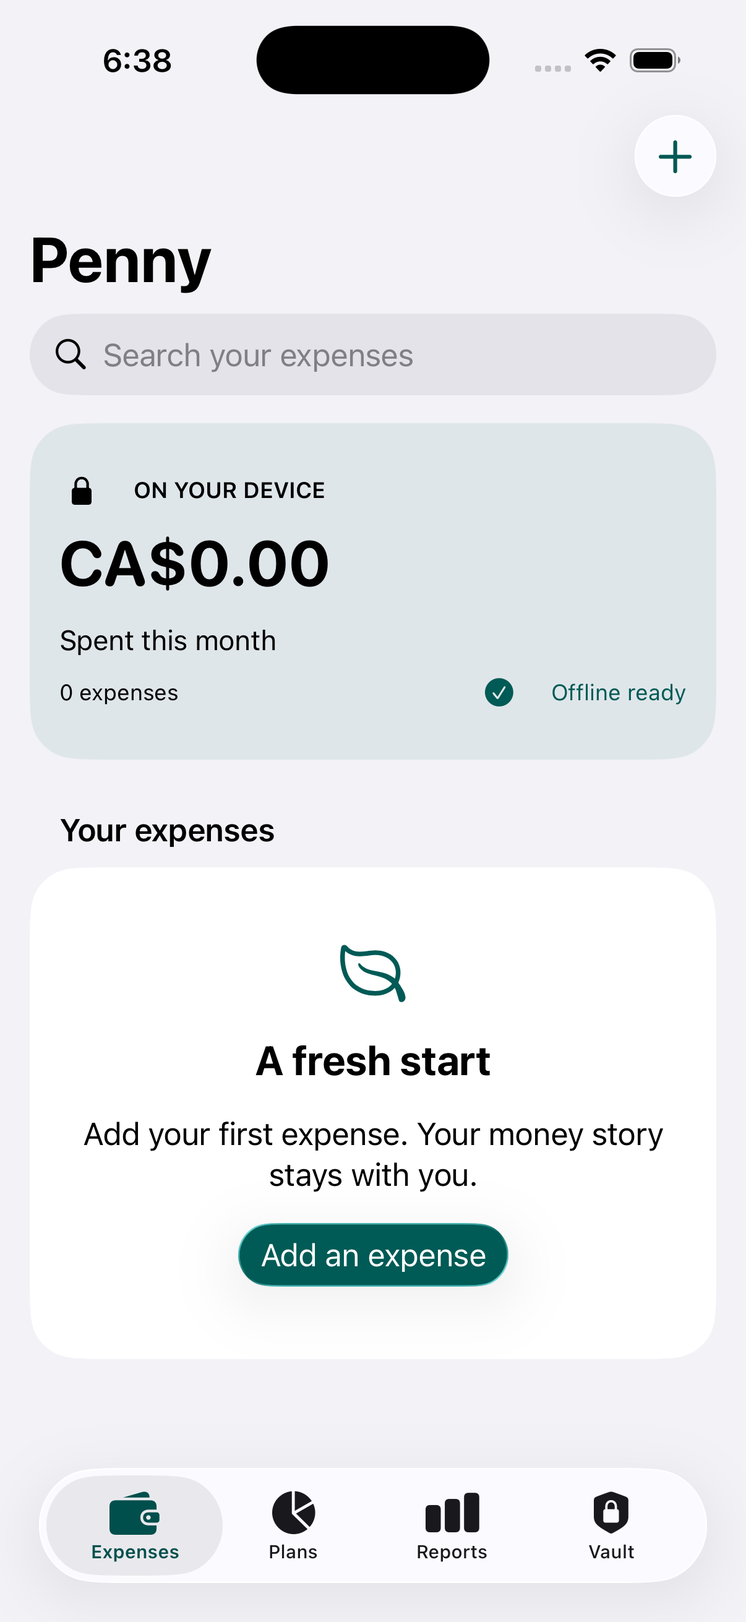
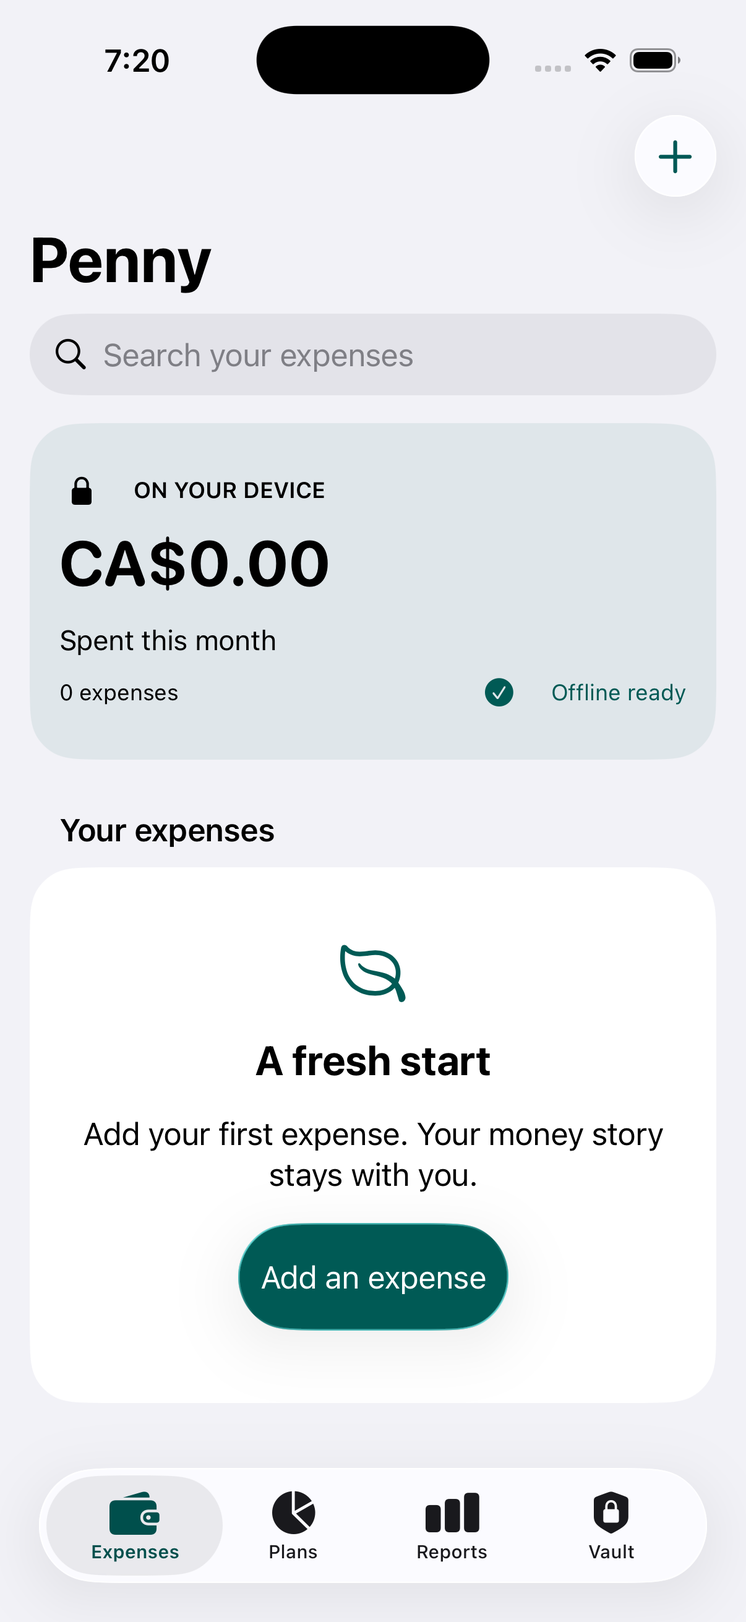
fix(offline): synchronize native UI journeys and improve expense tap target

Changed region(s): [[0.3068, 0.7414, 0.7056, 0.8341], [0.1227, 0.0309, 0.2454, 0.0618]]

diff --git a/apps/ios/PennyOfflineUITests/CloudFlowTests.swift b/apps/ios/PennyOfflineUITests/CloudFlowTests.swift
@@ -24,32 +24,52 @@ import XCTest
         app.terminate(); app.launch()
         XCTAssertTrue(app.buttons["expense-Local without cloud"].waitForExistence(timeout: 5))
     }
-    func testSyntheticAutomaticConsentCancelEnableRelaunchAndDisable() {
+    func testSyntheticAutomaticConsentCancelEnableRelaunchAndDisable() throws {
         let app = XCUIApplication(); app.launchArguments = ["--uitesting", "--reset-vault", "--synthetic-cloud"]; app.launch()
         func openCloud() {
             app.buttons["Vault"].tap(); let link = app.buttons["Optional iCloud backup"]
             if !link.isHittable { app.swipeUp() }; link.tap()
             XCTAssertTrue(app.staticTexts["syntheticCloudProvider"].exists || app.otherElements["syntheticCloudProvider"].exists)
         }
-        func toggle() -> XCUIElement {
+        func toggle() throws -> XCUIElement {
             let element = app.switches["automaticCloudBackup"]
-            for _ in 0..<3 { if element.isHittable { break }; app.swipeUp() }
-            XCTAssertTrue(element.waitForExistence(timeout: 5)); return element
+            for _ in 0..<8 {
+                let frame = element.exists ? element.frame : .zero
+                let bottom = app.tabBars.firstMatch.exists ? app.tabBars.firstMatch.frame.minY : app.frame.maxY
+                let top = app.navigationBars.firstMatch.frame.maxY
+                if element.exists, element.isHittable, !frame.isEmpty,
+                   frame.minY > top + 8, frame.maxY < bottom - 8 { return element }
+                let aboveNavigation = !frame.isEmpty && frame.minY <= top + 8
+                app.coordinate(withNormalizedOffset: CGVector(dx: 0.5, dy: aboveNavigation ? 0.4 : 0.7))
+                    .press(forDuration: 0.05, thenDragTo: app.coordinate(withNormalizedOffset: CGVector(dx: 0.5, dy: aboveNavigation ? 0.7 : 0.4)))
+            }
+            XCTFail("Automatic backup switch must be fully visible between navigation and tab bars")
+            throw NSError(domain: "CloudFlowTests", code: 1)
+        }
+        func tapToggle() throws {
+            let row = try toggle()
+            let controls = row.descendants(matching: .switch).allElementsBoundByIndex.filter { $0.isHittable && $0.frame.width <= 100 && $0.frame.height <= 60 }
+            // SwiftUI may expose the compact UISwitch as a child of a labelled
+            // switch row. Require a single control; never tap near obscuring tabs.
+            if controls.count == 1 { controls[0].tap() }
+            else if controls.isEmpty { row.tap() }
+            else { XCTFail("Ambiguous automatic-backup switch controls"); throw NSError(domain: "CloudFlowTests", code: 2) }
         }
         openCloud(); let enable = app.buttons["enableCloudBackup"]
         if !enable.isHittable { app.swipeUp() }; enable.tap()
-        let automatic = toggle(); XCTAssertEqual(automatic.value as? String, "0"); XCTAssertTrue(automatic.isEnabled)
-        automatic.coordinate(withNormalizedOffset: CGVector(dx: 0.9, dy: 0.5)).tap()
+        let automatic = try toggle(); XCTAssertEqual(automatic.value as? String, "0"); XCTAssertTrue(automatic.isEnabled)
+        try tapToggle()
         let consent = app.buttons["Enable automatic backup"]
-        XCTAssertTrue(consent.waitForExistence(timeout: 5)); app.buttons["Cancel"].tap()
+        guard consent.waitForExistence(timeout: 5) else { XCTFail("Explicit automatic backup consent must appear"); return }
+        app.buttons["Cancel"].tap()
         XCTAssertEqual(automatic.value as? String, "0")
-        automatic.coordinate(withNormalizedOffset: CGVector(dx: 0.9, dy: 0.5)).tap(); consent.tap()
+        try tapToggle(); XCTAssertTrue(consent.waitForExistence(timeout: 5)); consent.tap()
         XCTAssertEqual(automatic.value as? String, "1")
         let image = XCTAttachment(screenshot: app.screenshot()); image.name = "Synthetic provider automatic consent"; image.lifetime = .keepAlways; add(image)
         app.terminate(); app.launchArguments = ["--uitesting", "--synthetic-cloud"]; app.launch(); openCloud()
-        let persisted = toggle(); XCTAssertEqual(persisted.value as? String, "1")
-        persisted.coordinate(withNormalizedOffset: CGVector(dx: 0.9, dy: 0.5)).tap(); XCTAssertEqual(persisted.value as? String, "0")
-        app.terminate(); app.launch(); openCloud(); XCTAssertEqual(toggle().value as? String, "0")
+        let persisted = try toggle(); XCTAssertEqual(persisted.value as? String, "1")
+        try tapToggle(); XCTAssertEqual(persisted.value as? String, "0")
+        app.terminate(); app.launch(); openCloud(); XCTAssertEqual(try toggle().value as? String, "0")
     }
 
 }

diff --git a/apps/android/app/src/androidTest/java/ca/penny/offline/CaptureFlowTest.kt b/apps/android/app/src/androidTest/java/ca/penny/offline/CaptureFlowTest.kt
@@ -42,8 +42,17 @@ class CaptureFlowTest {
         compose.onNodeWithTag("amount").performTextInput("7.89")
         compose.onNodeWithTag("expense-editor").performScrollToNode(hasTestTag("save-expense"))
         compose.onNodeWithTag("save-expense").performClick()
-        compose.waitUntil(10_000) { compose.onAllNodesWithText(merchant,useUnmergedTree=true).fetchSemanticsNodes().isNotEmpty() }
+        lateinit var vm:PennyViewModel
+        compose.activityRule.scenario.onActivity {vm=androidx.lifecycle.ViewModelProvider(it)[PennyViewModel::class.java]}
+        // The merchant still matches the closing editor until the durable save
+        // finishes. Wait for its dismissal and the covering save snackbar first.
+        compose.waitUntil(10_000) {
+            !vm.state.value.busy && vm.state.value.message==null &&
+                compose.onAllNodesWithTag("expense-editor").fetchSemanticsNodes().isEmpty() &&
+                compose.onAllNodesWithText(merchant,useUnmergedTree=true).fetchSemanticsNodes().isNotEmpty()
+        }
         compose.onNodeWithText(merchant,useUnmergedTree=true).performClick()
+        compose.waitUntil(10_000) {compose.onAllNodesWithTag("amount").fetchSemanticsNodes().isNotEmpty()}
         compose.onNodeWithTag("amount").assertTextContains("7.89")
         compose.onNodeWithTag("expense-editor").performScrollToNode(hasText("Delete expense"))
         compose.onNodeWithText("Delete expense",useUnmergedTree=true).performClick()

diff --git a/apps/ios/PennyOffline/ExpensesView.swift b/apps/ios/PennyOffline/ExpensesView.swift
@@ -58,7 +58,11 @@ struct ExpensesView: View {
                             Text(search.isEmpty ? "A fresh start" : "No matches").font(.title2.bold())
                             Text(search.isEmpty ? "Add your first expense. Your money story stays with you." : "Try another merchant, category, or note.")
                                 .font(.body).foregroundStyle(Color.pennySecondary).fixedSize(horizontal: false, vertical: true)
-                            if search.isEmpty { Button("Add an expense") { adding = true }.font(.body).buttonStyle(.glassProminent).tint(Color.pennyButton).foregroundStyle(.white) }
+                            if search.isEmpty {
+                                Button { adding = true } label: {
+                                    Text("Add an expense").font(.body).frame(minWidth: 44, minHeight: 44)
+                                }.buttonStyle(.glassProminent).tint(Color.pennyButton).foregroundStyle(.white).accessibilityIdentifier("emptyAddExpense")
+                            }
                         }.frame(maxWidth: .infinity).multilineTextAlignment(.center).padding(.vertical, 24)
 
                     }

diff --git a/apps/ios/PennyOfflineUITests/ExpenseFlowTests.swift b/apps/ios/PennyOfflineUITests/ExpenseFlowTests.swift
@@ -1,6 +1,17 @@
 import XCTest
 
 @MainActor final class ExpenseFlowTests: XCTestCase {
+    func testEmptyExpenseActionHasAccessibleHitArea() {
+        let app = XCUIApplication(); app.launchArguments = ["--uitesting", "--reset-vault"]; app.launch()
+        let addExpense = app.buttons["emptyAddExpense"]
+        XCTAssertTrue(addExpense.waitForExistence(timeout: 5))
+        XCTAssertGreaterThanOrEqual(addExpense.frame.width, 44)
+        XCTAssertGreaterThanOrEqual(addExpense.frame.height, 44)
+        if !addExpense.isHittable { app.swipeUp() }
+        addExpense.tap(); XCTAssertTrue(app.textFields["merchantField"].waitForExistence(timeout: 5))
+        app.buttons["Cancel"].tap()
+        XCTAssertTrue(addExpense.waitForExistence(timeout: 5))
+    }
     func testLocalExpenseSurvivesRelaunchThenEditAndDelete() {
         let app = XCUIApplication()
         app.launchArguments = ["--uitesting", "--reset-vault"]

diff --git a/docs/offline/STATUS.md b/docs/offline/STATUS.md
@@ -83,7 +83,7 @@ Compact machine-readable iOS functional, final-fix, performance and compiled pri
 
 ### Final minimum-runtime and receipt corrections
 
-Android 8/API26 full regression passed **29 of 34 discovered tests**, with five explicit opt-in/process skips and no failures. It exposed and corrected missing Closeable compatibility and an older Keystore provider's lost large-cipher output; bounded 16 KiB authenticated legacy decryption now requires complete output before returning. Final Android 17 regression passed 31 of 34 discovered tests, with three separately exercised process phases intentionally skipped and no failures;25 JVM tests and lint with zero errors/11 warnings passed. Final fresh-process UI recovery passed with PID 4651 to 4701; 10k recovery passed with PID 4847 to 4909 in 1.563 seconds. The normal development APK passed 16 KiB alignment and was installed into the previously absent `.dev` package on the isolated Android 17 emulator.
+Android 8/API 26 full regression passed **29 of 34 discovered tests**, with five explicit opt-in/process skips and no failures. It exposed and corrected missing Closeable compatibility and an older Keystore provider's lost large-cipher output; bounded 16 KiB authenticated legacy decryption now requires complete output before returning. Final Android 17 regression passed 31 of 34 discovered tests, with three separately exercised process phases intentionally skipped and no failures;25 JVM tests and lint with zero errors/11 warnings passed. Final fresh-process UI recovery passed with PID 4651 to 4701; 10k recovery passed with PID 4847 to 4909 in 1.563 seconds. The normal development APK passed 16 KiB alignment and was installed into the previously absent `.dev` package on the isolated Android 17 emulator.
 
 The shared PNG corpus exposed seven malformed images admitted by ImageIO, so both native apps now check complete PNG/zlib/scanline integrity before decoding or preparation conversion. The frozen corpus has **24 cases: five valid and 19 invalid**. Final iOS acceptance passed **55 unit plus three affected UI tests (58/58)**, then the expanded corpus passed its focused test. Original failing evidence is preserved. Normal demo and unsigned device builds were rebuilt; iOS frozen source hashes match. Saved receipt caps and portable versions are unchanged. The current iOS demo process was relaunched from that corrected build without test arguments.
 
@@ -95,6 +95,15 @@ At the 14,545-second integration checkpoint, the goal tool reported **6,760,360 
 
 Draft [PR44](https://github.com/sarathfrancis90/penny/pull/44) contains the native development milestone on `codex/penny-offline-native`. Initial implementation commit is `8a3a777`; `bf9a53d` fixes the retained pre-push hook's Git environment when Flutter probes its separate SDK repository. The complete **290-test legacy Flutter suite** passed with the hook enabled before push. The clean review worktree contains none of the user's pre-existing API/Flutter source edits.
 
-Hosted native contract and Android compilation/unit/lint/APK jobs passed on `0a1d401` after explicitly installing Android command-line tools. API37 instrumentation passed its 29 enabled tests, then its process helper failed because the runner lacked ripgrep. API26 encountered a SystemUI crash in the generic AVD profile; the workflow now requires a Pixel 2 profile with validated dimensions, density and navigation keys. The process helper now uses portable exact grep checks. Fixed-head hosted revalidation remains required. iOS hosted simulator results remain pending. Retained API, Firebase rules, backend/Flutter/Android compatibility and documentation jobs passed on that head.
+Hosted native contract and Android compilation/unit/lint/APK jobs passed on `0a1d401` after explicitly installing Android command-line tools. API 37 instrumentation passed its 29 enabled tests, then its process helper failed because the runner lacked ripgrep. API 26 encountered a SystemUI crash in the generic AVD profile; the workflow now requires a Pixel 2 profile with validated dimensions, density and navigation keys. The process helper now uses portable exact grep checks. Fixed-head hosted revalidation remains required. iOS hosted simulator results remain pending. Retained API, Firebase rules, backend/Flutter/Android compatibility and documentation jobs passed on that head.
 
 Hosted security scanning exposed four retained Ruby dependency advisories and SAST findings. Ruby resolution and targeted tooling hardening are recorded in [COMPATIBILITY_SECURITY.md](COMPATIBILITY_SECURITY.md); hosted revalidation remains required. No merge, native store upload or public rollout occurred.
+
+
+### Hosted security closure and iOS UI correction
+
+At `25a776c`, hosted dependency-security, OSV, aggregate security and SAST all passed; the compact check links are in [hosted-security-25a776c.json](evidence/hosted-security-25a776c.json). Native contract and Android compilation/unit/lint/APK also passed. The corrected Pixel 2 profile API 37 device/process job passed. API 26 reached one remaining editor-dismissal timing failure; its app save path passed. The harness now waits for operation idle, snackbar completion, editor dismissal and the saved card before reopening it. All three affected local API 26 capture tests passed without skips; fixed-head hosted verification remains required.
+
+The first completed hosted iOS run compiled with Xcode 26.6/iOS 26.5 and passed 55 unit methods plus seven of eight UI methods. The remaining consent test tapped the floating Vault tab over a partly visible switch. The corrected helper requires unobscured geometry, checks absent rows before reading frames, reverses overshot scrolling and rejects ambiguous controls. An app-owned empty-state action now has a 44pt minimum label and measures 58pt in the UI. Both affected tests passed on iPhone 17 and iPhone 16e (2/2 each); compact summaries and the failed accessibility recheck are in `evidence/ios-hosted-harness-*.json` and `evidence/ios-accessibility-recheck.json`. The rebuilt normal demo is installed and its executable hashes are verified. The earlier unsigned device artifact predates this UI-only change.
+
+The unfiltered iOS audit still reports 13 findings, with two element differences due to the retained synthetic confirmed-key state. No finding is suppressed. [Element-specific disposition](evidence/ios-accessibility-disposition.md) separates the corrected hit area from unproven font-layout issues and offscreen sampling. Actual system content-size comparisons are still in progress; this is not an accessibility pass.

diff --git a/docs/offline/evidence/ios-accessibility-disposition.md b/docs/offline/evidence/ios-accessibility-disposition.md
@@ -1,0 +1,17 @@
+# Bounded reassessment of the original 13 Inspector findings
+
+No finding was suppressed. Original issue list: p6-accessibility-findings.txt; extracted original per-issue screenshots: p6-a11y-review/manifest.json. This is a code/evidence assessment, not a passing accessibility audit.
+
+| Original findings | Source | Evidence and disposition |
+| --- | --- | --- |
+| Three Dynamic Type warnings: empty-state title, explanation and Add an expense | PennyOffline/ExpensesView.swift:58–65 | Semantic title2/body fonts; no size clamp or fixed-height container. Original normal-size screenshot 045D020E-5F51-444F-88AA-08E4E0D6E27A.png shows complete text. It does not establish behavior at every supported size. Independently, the button's measured 145.7×34.3pt hit area was a concrete app-owned defect; corrected with a minimum 44pt label. Focused UI checks pass; rerun Inspector reports actual 145.7×58pt while retaining its Dynamic Type warning. |
+| Five Dynamic Type warnings: two report labels, their two currency values and explanatory paragraph | PennyOffline/FinanceView.swift:12–22 and254–256 | Body fonts, unlimited vertical growth and a VStack at accessibility sizes. Original screenshot 6E874D6F-BBB4-4E2B-B8AE-9A71A320E89C.png shows complete normal-size rows. Existing large-type journey scrolls to CSV before capturing, so it does not directly prove these five elements scale correctly. No specific font/layout defect is established; next local proof should capture these rows at actual system category changes, including XXXL and AX5, before changing the component. |
+| Dynamic Type warning: Encrypted backup heading | PennyOffline/FinanceView.swift:9; VaultView.swift:28 | Shared header uses headline, semantic label color and vertical fixedSize. No font clamp found. The large-type Vault captures are scrolled past this header; direct system-font-change evidence for this element is still missing. |
+| Dynamic Type warning: disabled Restore a backup | PennyOffline/VaultView.swift:57–58 | Native Button and system font, intentionally disabled until a restore key exists. Do not enable invalid restore or change accessibility state merely to clear the warning. Need a targeted default/AX5 comparison in disabled and enabled states; present data does not prove a scaling defect or a framework false positive. |
+| Clipping: Search your expenses | PennyOffline/ExpensesView.swift:89 | Native searchable field, no app-owned fixed height. Original element crop 7D6C7DE1-AE24-4AB1-8A19-CA9A48337458.png shows the full placeholder; warning concerns larger sizes not shown by this crop. A shorter prompt is possible but unproven as a fix. Verify actual system AX5 text entry and placeholder rendering before replacing native search. |
+| Clipping: ON YOUR DEVICE | PennyOffline/ExpensesView.swift:30–31 | Caption Label has vertical growth enabled. Original element crop 3164A2A0-C60F-451C-A8B5-33BD1D2B184D.png contains the complete text/icon. No visible normal-size clipping; the existing visual journey does not capture the expense header at large sizes. Need direct system AX5 capture; no demonstrated source fix yet. |
+| Contrast: Vault capacity | PennyOffline/VaultView.swift:62; FinanceView.swift:9; PennyColors.swift:6 | Source uses semantic label color. Original reported frame y830..870 extends beyond the 844pt screen; full screenshot 5524AC60-5668-4390-AD05-6604B5F109D2.png does not show the heading. Element crop 56EB7198-2AE7-45AC-B8FA-00BA6A504EE8.png is almost entirely background/black, with no readable heading. This is concrete evidence of an offscreen/chrome sampling limitation, not proof of a bad foreground color. Rerun after scrolling this heading fully between the bars; do not globally filter contrast. |
+
+The next locally achievable diagnostic is a bounded actual-system content-size comparison of these exact elements, with explicit scrolling and screenshots, rather than changing semantic fonts speculatively. `simctl ui <device> content_size` exposes all standard and extended categories on this runtime. Restore the initial device setting afterward. Physical VoiceOver remains a separate gate, but these layout comparisons do not require hardware.
+
+After the 44pt change, HostedHarnessAccessibility.xcresult still fails with 13 unfiltered findings (10 Dynamic Type, 2 clipping, 1 contrast). That run follows the synthetic-consent journey and retains its isolated confirmed public test key: the extra confirmed-key label is now flagged for Dynamic Type, while the disabled Restore row receives contrast instead of the previously offscreen capacity heading. This state difference must not be presented as thirteen identical before/after findings. See hosted-harness-accessibility-findings.txt and summary JSON.

diff --git a/apps/ios/README.md b/apps/ios/README.md
@@ -52,6 +52,8 @@ The separate `PennyOfflineAccessibility` scheme runs **unfiltered** `performAcce
 
 The final-source unsigned device branch, including strict PNG admission, compiled successfully in `.build/png-final-device-compile.log`; the compiled metadata/import audit was refreshed afterward. A normal Debug simulator app is available at `.build/demo/Build/Products/Debug-iphonesimulator/PennyOffline.app` (build log `.build/png-demo-build.log`). Install and launch it without test arguments on a fresh simulator. `.build/p6-source-freeze.json` records source and executable hashes; `.build/p6-handoff.json` indexes the exact gate dispositions. Existing test devices retain isolated public-fixture data and are not clean demo environments.
 
+The first completed hosted macOS gate (`34787947533`, Xcode 26.6 / iPhone 17 Pro iOS 26.5) passed 55 unit tests and 7 of 8 UI methods. The synthetic consent method failed because its coordinate tap hit the floating Vault tab over a partly visible switch. Hosted recording evidence is `.build/hosted-cloud-failure/before-switch-tap.png`. The harness now requires the whole switch row between navigation/tab bars, handles absent and overshot rows, targets the compact switch when exposed and refuses ambiguous controls. The app-owned empty-state button also has a 44pt minimum label height; runtime audit now measures 58pt. Both focused methods passed on iPhone 17 and iPhone 16e (2/2 each) in `.build/HostedHarnessPhoneFinal.xcresult` and `.build/HostedHarnessSmallFinal.xcresult`. The follow-up unfiltered audit `.build/HostedHarnessAccessibility.xcresult` still fails with 13 findings; its isolated confirmed-key state changes two reported elements from the original audit. Exact evidence/dispositions are `.build/hosted-harness-accessibility-findings.txt` and `.build/a11y-review-disposition.md`. The normal Debug demo was rebuilt (`.build/hosted-harness-demo-build.log`); the earlier unsigned device artifact predates this UI-only 44pt change.
+
 ## Implemented
 
 - Native system navigation, tabs, sheets and controls adopt Liquid Glass on iOS 26. Semantic colors, Dynamic Type, search, accessible labeled controls, empty and failure states.

diff --git a/docs/offline/COMPATIBILITY_SECURITY.md b/docs/offline/COMPATIBILITY_SECURITY.md
@@ -54,4 +54,4 @@ SAST remediation adds explicit seven-day Dependabot version-update cooldowns, a 
 
 The Android MAIN/LAUNCHER activity must remain exported so launchers can open it. MainActivity ignores incoming intent fields and has no privileged intent entrypoint. Its exact exported-activity rule has a local reviewed annotation; no rule or file is excluded globally. Re-review that annotation if intent handling is added. See [Android activity documentation](https://developer.android.com/guide/topics/manifest/activity-element#exported) and [Semgrep annotation guidance](https://docs.semgrep.dev/ignoring-files-folders-code).
 
-Focused Semgrep 1.165.0 with the CI rulesets passed with zero findings and no parse errors. The shared gate passed 67 Node tests and 22 Python groups, including the AVD profile regression. Full clean-review Semgrep scanning exited successfully with zero findings over 1,072 files, but reported 12 partial-parsing warnings in GitHub expression snippets, shell scripts and retained JSX. This limits scanner coverage; no exclusions were added to hide these warnings. Full-branch hosted SAST/security results remain pending; local scanner success is not a signed native release or complete security assessment.
+Focused Semgrep 1.165.0 with the CI rulesets passed with zero findings and no parse errors. The shared gate passed 67 Node tests and 22 Python groups, including the AVD profile regression. Full clean-review Semgrep scanning exited successfully with zero findings over 1,072 files, but reported 12 partial-parsing warnings in GitHub expression snippets, shell scripts and retained JSX. This limits scanner coverage; no exclusions were added to hide these warnings. Hosted dependency-security, OSV, aggregate security and SAST passed at `25a776c`; [exact check links](evidence/hosted-security-25a776c.json) record the head. These checks are not a signed native release or complete security assessment. Independent tooling review found no actionable regression and confirmed DTD/entity rejection; local SDK ownership/metadata validation does not authenticate an SDK binary against its publisher.

diff --git a/docs/offline/evidence/README.md b/docs/offline/evidence/README.md
@@ -9,4 +9,7 @@ These are copied machine-readable reports from the local native validation recor
 - `ios-p6-performance.json`: the same Release-optimized simulator matrix rerun after the PNG correction, with JPEG receipt workloads and a MainActor heartbeat; not PNG-scale or physical-device percentiles.
 - `ios-p6-privacy-build-audit.json`: unsigned device binary icon/privacy/API checks, not an exported distribution archive or final App Store privacy answer.
 
-The separate iOS accessibility diagnostic has 13 unresolved findings and is not included in passing functional counts. Full local xcresults, logs and screenshots remain under ignored `apps/ios/.build/`. Android API26 and API37 summaries retain exact discovery/skips plus every test method name from the final XML reports. Separate process phases are recorded in the platform evidence and are not hidden inside those suite counts. `android-p6-performance.json` records the final debug-emulator workload with sampled memory, not physical-device percentiles.
+The separate iOS accessibility diagnostic has 13 unresolved findings and is not included in passing functional counts. Full local xcresults, logs and screenshots remain under ignored `apps/ios/.build/`. Android API 26 and API 37 summaries retain exact discovery/skips plus every test method name from the final XML reports. Separate process phases are recorded in the platform evidence and are not hidden inside those suite counts. `android-p6-performance.json` records the final debug-emulator workload with sampled memory, not physical-device percentiles.
+
+
+Later integration evidence includes hosted security checks at 25a776c and the iOS hosted-consent harness/44pt action correction. The new phone/smallphone summaries each cover two focused UI methods; the accessibility recheck remains failed. `native-source-provenance.json` retains original accepted hashes and separately records the Android launcher comment and iOS button changes, along with the current installed demo executables. Historical full-suite and unsigned-device evidence must not be relabeled as a fresh run after those changes.

diff --git a/docs/offline/REVIEW.md b/docs/offline/REVIEW.md
@@ -228,3 +228,8 @@ Android's inspected `p6-api26-final-results.xml` records **34 discovered, 29 pas
 Independent inspection of the parent's isolated review-tree logs records **150 API tests**, **226 global tests**, **104 generated-doc tests**, **67 offline Node tests** and **19 offline Python tests** passing. Web typecheck/build logs are clean; the build used synthetic public Firebase configuration and an explicit Admin build fallback, so it is not an authenticated backend test. The audit JSON reports zero known vulnerabilities at this checkpoint. Final synchronization and docs regeneration remain the parent's integration responsibility; these logs are not evidence for unreviewed later changes or the user's excluded original API/Flutter work.
 
 The native CI source now runs on every PR/push to `main` without path filters. Its always-running `native-offline-gate` requires success from contract, Android build, iOS and the Android device matrix; the repository's Penny Required Gate requires that aggregate check. The configured Android matrix includes minimum API 26 and API 37/16 KiB. Hosted execution is still pending; locally passing policy checks and a configured matrix cannot establish a completed hosted run.
+
+
+### Later hosted CI integration corrections
+
+Hosted security passed at25a776c; API37 device/process also passed. API26's remaining capture harness race now waits for completed save/editor dismissal and passes all three affected local methods. The iOS hosted consent failure was an obscured coordinate target:55 units and7/8 UI passed before that failure. The corrected harness and a44pt minimum empty-state action pass both affected methods on large and small iPhones. These later changes and current demo hashes are recorded separately in `evidence/native-source-provenance.json`; original full-suite evidence is preserved. The unfiltered iOS accessibility recheck still fails with13 issues, with state-dependent element differences. Actual system font-size comparisons are in progress. See STATUS and the compact evidence files for exact scope; no native store release has occurred.

diff --git a/docs/agents/FILE_MAP.md b/docs/agents/FILE_MAP.md
@@ -4,7 +4,7 @@
 
 This inventory includes every tracked file plus every staged new file visible to Git at generation time. It is intentionally path-focused for agent navigation and does not reproduce generated Firebase config values or secret-bearing file contents.
 
-- Total source-visible files: 1122
+- Total source-visible files: 1129
 
 | Path | Area |
 |---|---|
@@ -377,11 +377,18 @@ This inventory includes every tracked file plus every staged new file visible to
 | `docs/offline/REVIEW.md` | docs |
 | `docs/offline/STATUS.md` | docs |
 | `docs/offline/evidence/README.md` | docs |
+| `docs/offline/evidence/android-api26-capture-sync.json` | docs |
 | `docs/offline/evidence/android-demo-launch.png` | docs |
 | `docs/offline/evidence/android-p6-api26-summary.json` | docs |
 | `docs/offline/evidence/android-p6-api37-summary.json` | docs |
 | `docs/offline/evidence/android-p6-performance.json` | docs |
+| `docs/offline/evidence/hosted-security-25a776c.json` | docs |
+| `docs/offline/evidence/ios-accessibility-disposition.md` | docs |
+| `docs/offline/evidence/ios-accessibility-recheck.json` | docs |
 | `docs/offline/evidence/ios-demo-launch.png` | docs |
+| `docs/offline/evidence/ios-hosted-first-summary.json` | docs |
+| `docs/offline/evidence/ios-hosted-harness-phone.json` | docs |
+| `docs/offline/evidence/ios-hosted-harness-small.json` | docs |
 | `docs/offline/evidence/ios-p6-final-fix-summary.json` | docs |
 | `docs/offline/evidence/ios-p6-functional-summary.json` | docs |
 | `docs/offline/evidence/ios-p6-performance.json` | docs |
